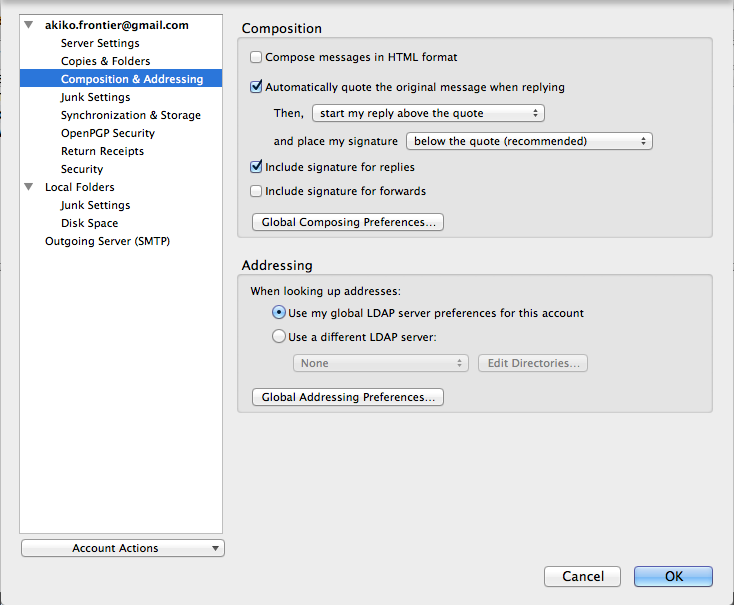
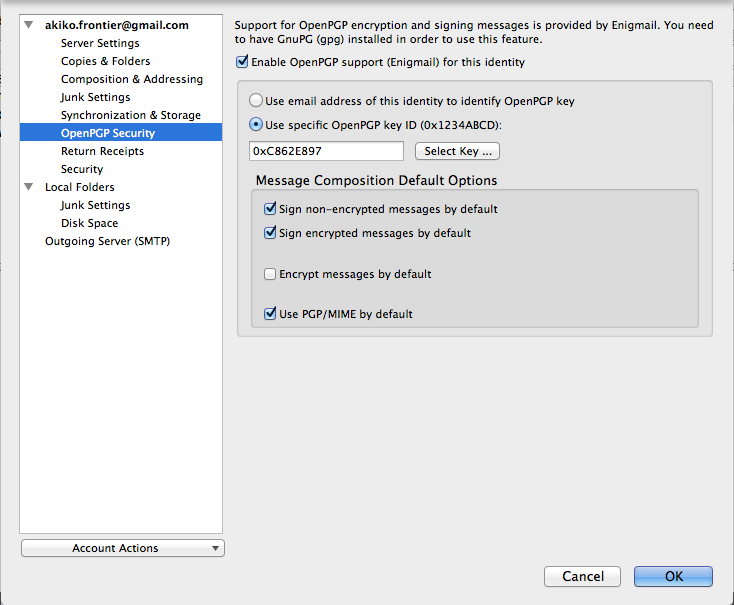
way simplified enigmail instructions by not using the setup wizard, which has stupid defaults anyway because it doesn't use PGP/MIME and disables all sorts of things that only need to be disabled for inline PGP

diff --git a/doc/getting_started/osx.md b/doc/getting_started/osx.md
@@ -69,39 +69,21 @@ Search for "enigmail" in the search box in the top right.
 
 Click the Install button next to the Enigmail extension to download and install Enigmail. When it's done, click Restart Now to restart Thunderbird.
 
-The first time you run Thunderbird with Enigmail enabled it opens the OpenPGP Setup Wizard. It asks if you'd like to use the wizard. Choose Yes, and click Continue.
+The first time you run Thunderbird with Enigmail enabled it opens the OpenPGP Setup Wizard. Click Cancel. We will manually configure Enigmail instead.
 
 ![Enigmail wizard](../images/osx/enigmail1.png)
 
-It asks if you'd like to sign all of your email. Choose Yes and click continue.
-
-![Enigmail wizard, sign emails by default](../images/osx/enigmail2.png)
-
-It asks if your outgoing mail should be encrypted by default. This would be ideal, but remember that you can only send encrypted email to other people who use PGP, and you need to have their public keys in your keychain as well. Since this probably isn't most people you send emails to, it's best to choose No here and click Continue. (You can manually choose to encrypt emails to people who you know use PGP.)
-
-![Enigmail wizard, encrypt emails by default](../images/osx/enigmail3.png)
-
-It asks if you'd like it to change some default settings for you to make OpenPGP work better. Choose Yes and click Continue.
-
-![Enigmail wizard, preferences](../images/osx/enigmail4.png)
-
-Then it asks you to select a key that you want to use for signing and encrypting. Choose the key that you just created in the last step and click Continue.
-
-![Enigmail wizard, default PGP key](../images/osx/enigmail5.png)
-
-Then it shows a summary of what you just did. Click Continue to close it, and click Done on the next step.
-
-There are still a couple of settings that you should change before everything is set up perfectly. Click the menu button, hover over Preferences, and choose Account Settings.
+Click the menu button, hover over Preferences, and choose Account Settings.
 
 ![Open Account Settings](../images/osx/thunderbird6.png)
 
-Go to the Composition & Addressing tab. From here, you can optionally check "Compose messages in HTML format". It's up to you if you use HTML or not. HTML email lets you use formatting (like bold and italic), but some people find it annoying as well.
+Go to the OpenPGP Security tab. Make sure "Enable OpenPGP support (Enigmail) for this identity" is checked. "Use specific OpenPGP key ID" should be selected, and if your key isn't already selected you can click Select Key to select it.
 
-![Account Settings, Composition and Addressing](../images/osx/thunderbird7.png)
+You should also check "Sign non-encrypted message by default", "Sign encrypted messages by default", and "Use PGP/MIME by default", but not "Encrypt messages by default".
 
-Then choose the OpenPGP Security tab. "Sign non-encrypted message by default" and "Sign encrypted messages by default" should already be checked. Make sure you also check "Use PGP/MIME by default".
+It would be ideal to encrypt all the emails you send, but remember that you can only send encrypted email to other people who use PGP, and you need to have their public keys in your keychain as well. Unless everyone you intend to email already uses PGP, it doesn't make sense to always encrypt by default. (You can manually choose to encrypt emails to people who you know use PGP.)
 
-![Account Settings, OpenPGP Security](../images/osx/thunderbird8.png)
+![Account Settings, OpenPGP Security](../images/osx/thunderbird7.png)
 
 Then click OK to save all of the settings. Congratulations, you now have Thunderbird and Enigmail set up! Here are a couple of quick pointers.
 
@@ -109,7 +91,7 @@ You can click the menu button, hover over OpenPGP, and open Key Management to se
 
 When you're composing a new message, there are two icons in the bottom right corner of the window: a pen (digitally sign email) and a key (encrypt email). If the icons are gold it means they are selected, and if they're silver it means they're not selected. Click on them to toggle signing and encrypting the email you're writing.
 
-![Email to Bruno](../images/osx/thunderbird9.png)
+![Email to Bruno](../images/osx/thunderbird8.png)
 
 You can always sign your emails. Because digitally signing emails requires your secret key, Enigmail will pop up a window asking for your passphrase when you first sign an email. You can only encrypt emails if you have the public key of the person you're emailing. You can try searching for people's public keys from GPG Keychain Access or from Enigmail's Key Management, and you can import keys that people email you as well.
 
